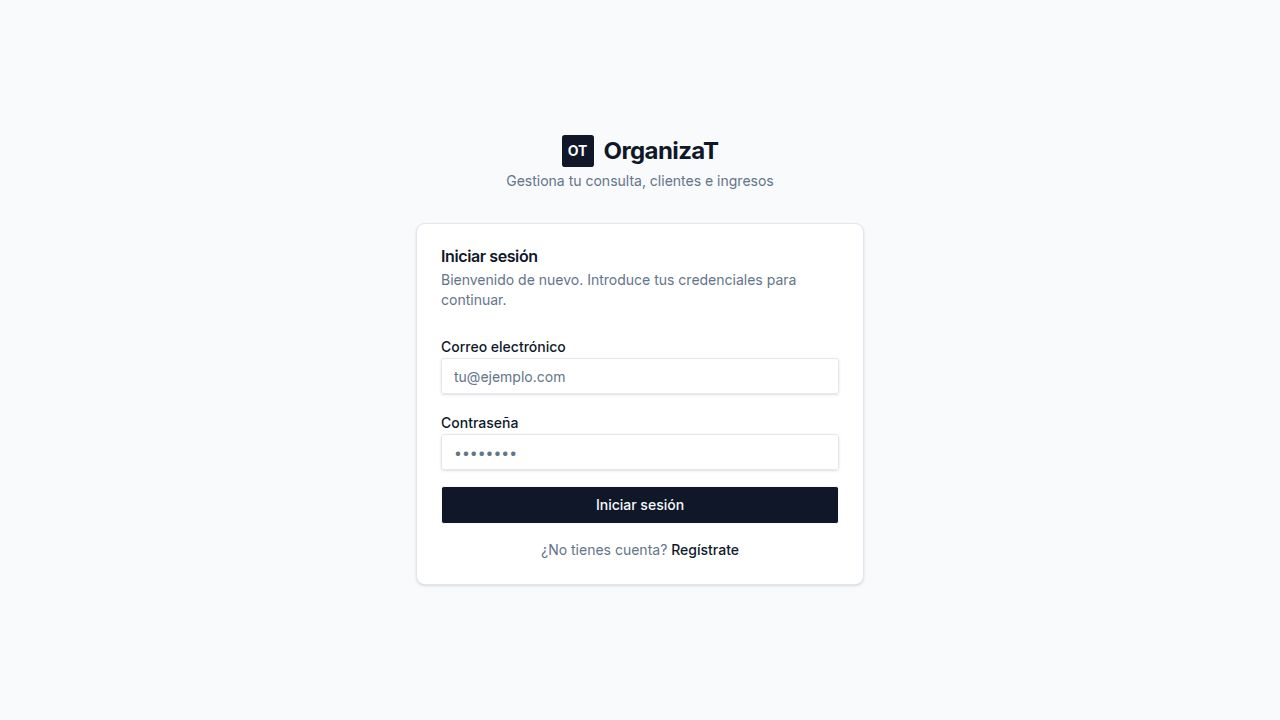
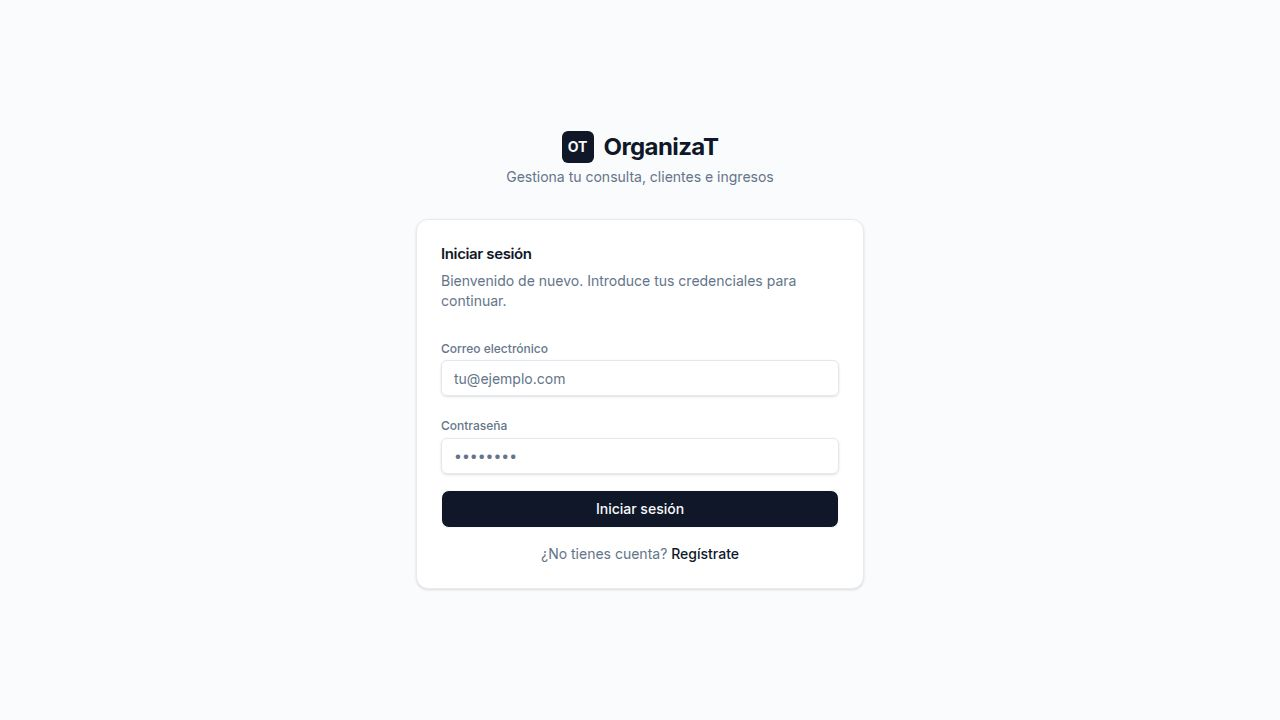
Improve sidebar navigation with a cleaner, more premium design
Refactor sidebar navigation component to enhance visual appeal and user experience by adjusting background colors, item spacing, active state highlighting, and icon sizing.

Replit-Commit-Author: Agent
Replit-Commit-Session-Id: f18e7c7d-5ff1-48b5-b620-8a5640b7ac37
Replit-Commit-Checkpoint-Type: full_checkpoint
Replit-Commit-Event-Id: 7dce815e-c232-4bae-b74f-9c690f2db1ad
Replit-Commit-Screenshot-Url: https://storage.googleapis.com/screenshot-production-us-central1/7e30c482-ffdb-47ef-adeb-443e6b2ff17a/f18e7c7d-5ff1-48b5-b620-8a5640b7ac37/HJAStZD
Replit-Helium-Checkpoint-Created: true

diff --git a/artifacts/saas-app/src/components/layout.tsx b/artifacts/saas-app/src/components/layout.tsx
@@ -50,10 +50,14 @@ export function Layout({ children }: { children: React.ReactNode }) {
     return null;
   }
 
+  const activeClass = "bg-primary/[0.07] text-foreground font-semibold";
+  const inactiveClass = "text-muted-foreground hover:bg-muted/70 hover:text-foreground";
+  const linkBase = "flex items-center gap-3 px-3 py-2.5 text-sm rounded-lg transition-all duration-200";
+
   const NavItems = () => (
     <>
-      <Link href="/dashboard" className={`flex items-center gap-3 px-3 py-2 rounded-lg transition-all duration-200 ${location === "/dashboard" ? "bg-primary text-primary-foreground font-medium" : "hover:bg-muted text-muted-foreground hover:text-foreground"}`}>
-        <LayoutDashboard className="h-5 w-5" />
+      <Link href="/dashboard" className={`${linkBase} ${location === "/dashboard" ? activeClass : inactiveClass}`}>
+        <LayoutDashboard className="h-4 w-4 shrink-0" />
         {t.nav.dashboard}
         {pendingCount > 0 && (
           <span className="ml-auto inline-flex items-center justify-center h-4 min-w-4 px-1 rounded-full bg-amber-500 text-white text-[9px] font-bold leading-none">
@@ -61,31 +65,31 @@ export function Layout({ children }: { children: React.ReactNode }) {
           </span>
         )}
       </Link>
-      <Link href="/clients" className={`flex items-center gap-3 px-3 py-2 rounded-lg transition-all duration-200 ${location.startsWith("/clients") ? "bg-primary text-primary-foreground font-medium" : "hover:bg-muted text-muted-foreground hover:text-foreground"}`}>
-        <Users className="h-5 w-5" />
+      <Link href="/clients" className={`${linkBase} ${location.startsWith("/clients") ? activeClass : inactiveClass}`}>
+        <Users className="h-4 w-4 shrink-0" />
         {t.nav.clients}
       </Link>
-      <Link href="/sessions" className={`flex items-center gap-3 px-3 py-2 rounded-lg transition-all duration-200 ${location.startsWith("/sessions") ? "bg-primary text-primary-foreground font-medium" : "hover:bg-muted text-muted-foreground hover:text-foreground"}`}>
-        <Calendar className="h-5 w-5" />
+      <Link href="/sessions" className={`${linkBase} ${location.startsWith("/sessions") ? activeClass : inactiveClass}`}>
+        <Calendar className="h-4 w-4 shrink-0" />
         {t.nav.sessions}
       </Link>
-      <Link href="/hoy" className={`flex items-center gap-3 px-3 py-2 rounded-lg transition-all duration-200 ${location === "/hoy" ? "bg-primary text-primary-foreground font-medium" : "hover:bg-muted text-muted-foreground hover:text-foreground"}`}>
-        <Sun className="h-5 w-5" />
+      <Link href="/hoy" className={`${linkBase} ${location === "/hoy" ? activeClass : inactiveClass}`}>
+        <Sun className="h-4 w-4 shrink-0" />
         {t.nav.today}
       </Link>
-      <Link href="/calendar" className={`flex items-center gap-3 px-3 py-2 rounded-lg transition-all duration-200 ${location.startsWith("/calendar") ? "bg-primary text-primary-foreground font-medium" : "hover:bg-muted text-muted-foreground hover:text-foreground"}`}>
-        <CalendarDays className="h-5 w-5" />
+      <Link href="/calendar" className={`${linkBase} ${location.startsWith("/calendar") ? activeClass : inactiveClass}`}>
+        <CalendarDays className="h-4 w-4 shrink-0" />
         {t.nav.calendar}
       </Link>
       {user.role === "trainer" && (
-        <Link href="/book-space" className={`flex items-center gap-3 px-3 py-2 rounded-lg transition-all duration-200 ${location.startsWith("/book-space") || location.startsWith("/space-book") ? "bg-primary text-primary-foreground font-medium" : "hover:bg-muted text-muted-foreground hover:text-foreground"}`}>
-          <Building2 className="h-5 w-5" />
+        <Link href="/book-space" className={`${linkBase} ${location.startsWith("/book-space") || location.startsWith("/space-book") ? activeClass : inactiveClass}`}>
+          <Building2 className="h-4 w-4 shrink-0" />
           {t.nav.spaceBook}
         </Link>
       )}
       {user.role !== "client" && (
-        <Link href="/users" className={`flex items-center gap-3 px-3 py-2 rounded-lg transition-all duration-200 ${location.startsWith("/users") ? "bg-primary text-primary-foreground font-medium" : "hover:bg-muted text-muted-foreground hover:text-foreground"}`}>
-          <UserCog className="h-5 w-5" />
+        <Link href="/users" className={`${linkBase} ${location.startsWith("/users") ? activeClass : inactiveClass}`}>
+          <UserCog className="h-4 w-4 shrink-0" />
           Usuarios
         </Link>
       )}
@@ -108,14 +112,14 @@ export function Layout({ children }: { children: React.ReactNode }) {
               <Menu className="h-5 w-5" />
             </Button>
           </SheetTrigger>
-          <SheetContent side="left" className="w-[240px] flex flex-col gap-4">
+          <SheetContent side="left" className="w-[240px] flex flex-col gap-4 bg-muted/40">
             <div className="flex items-center gap-2 mb-4">
               <div className="h-6 w-6 rounded bg-primary flex items-center justify-center shrink-0">
                 <span className="text-primary-foreground text-[10px] font-bold leading-none">OT</span>
               </div>
               <span className="font-bold text-lg tracking-tight">Organiza<span className="text-primary">T</span></span>
             </div>
-            <nav className="flex flex-col gap-2">
+            <nav className="flex flex-col gap-0.5">
               <NavItems />
             </nav>
             <div className="mt-auto">
@@ -131,18 +135,18 @@ export function Layout({ children }: { children: React.ReactNode }) {
       </div>
 
       {/* Desktop Sidebar */}
-      <aside className="hidden md:flex flex-col w-64 border-r bg-card p-4">
+      <aside className="hidden md:flex flex-col w-64 border-r border-border/70 bg-muted/40 p-4">
         <div className="flex items-center gap-2.5 mb-8 px-2">
           <div className="h-7 w-7 rounded-md bg-primary flex items-center justify-center shrink-0">
             <span className="text-primary-foreground text-xs font-bold leading-none">OT</span>
           </div>
           <span className="font-bold text-xl tracking-tight">Organiza<span className="text-primary">T</span></span>
         </div>
-        <nav className="flex flex-col gap-2 flex-1">
+        <nav className="flex flex-col gap-0.5 flex-1">
           <NavItems />
         </nav>
-        <div className="mt-auto pt-4 border-t">
-          <div className="px-2 mb-4">
+        <div className="mt-auto pt-4 border-t border-border/60">
+          <div className="px-3 mb-3">
             <div className="text-sm font-medium truncate">{user.name}</div>
             <div className="text-xs text-muted-foreground truncate">{user.email}</div>
           </div>